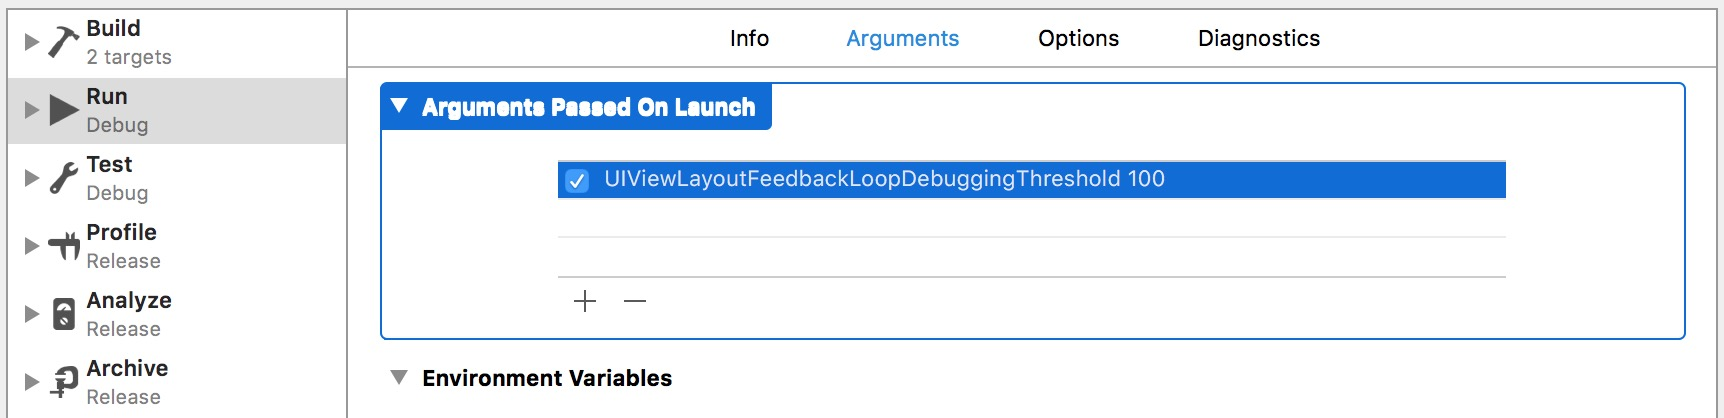
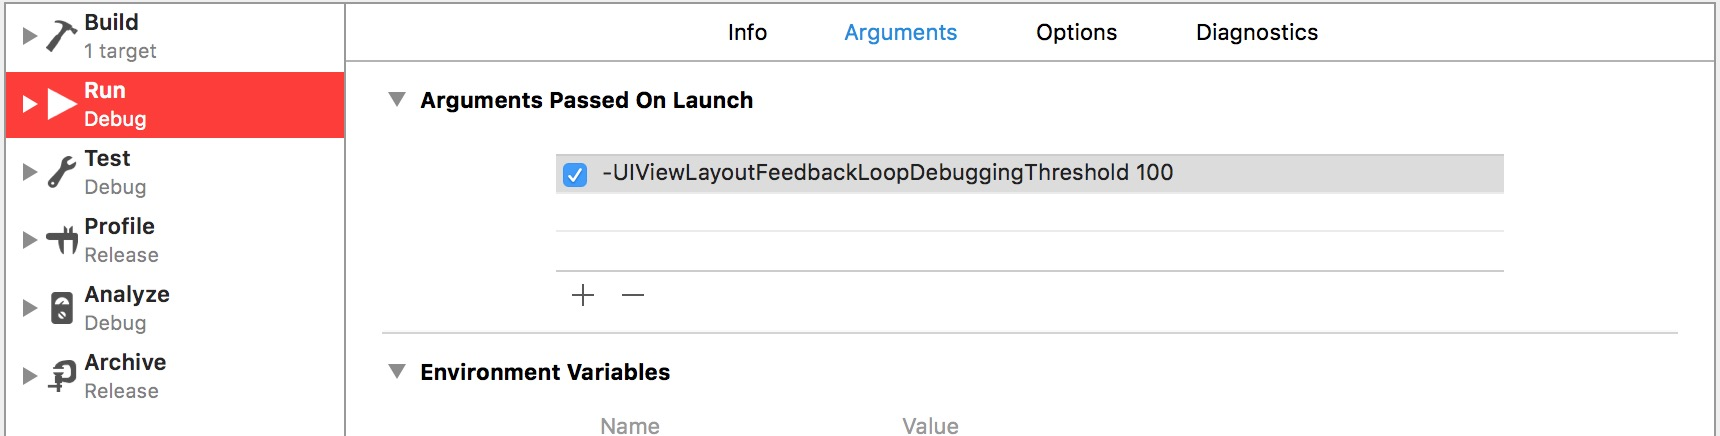
Site updated at 2016-12-02 12:51:50 UTC

diff --git a/blog/2016/10/07/xcode8xin-zeng-debugfang-fa/index.html b/blog/2016/10/07/xcode8xin-zeng-debugfang-fa/index.html
@@ -112,7 +112,7 @@
 
 <h4>检测方法</h4>
 
-<p>可在<code>Launch Arguments</code>中添加<code>UIViewLayoutFeedbackLoopDebuggingThreshold</code>，设置循环布局阀值，如100，然后当循环布局次数超过阀值时会抛出异常，此时通过<code>po [_UIViewLayoutFeedbackLoopDebugger layoutFeedbackLoopDebugger]</code>可输出详细信息。</p>
+<p>可在<code>Launch Arguments</code>中添加<code>-UIViewLayoutFeedbackLoopDebuggingThreshold</code>，设置循环布局阀值，如100，然后当循环布局次数超过阀值时会抛出异常，此时通过<code>po [_UIViewLayoutFeedbackLoopDebugger layoutFeedbackLoopDebugger]</code>可输出详细信息。</p>
 
 <p><img src="/images/2016/auto_layout_loop_threshold.png"></p>
 
